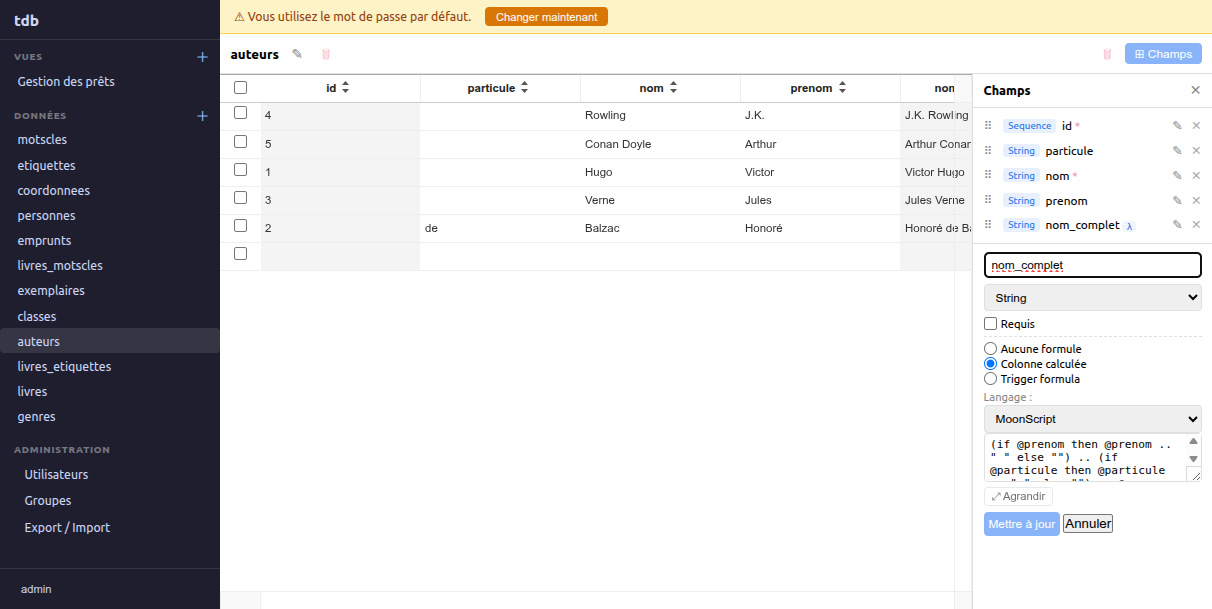
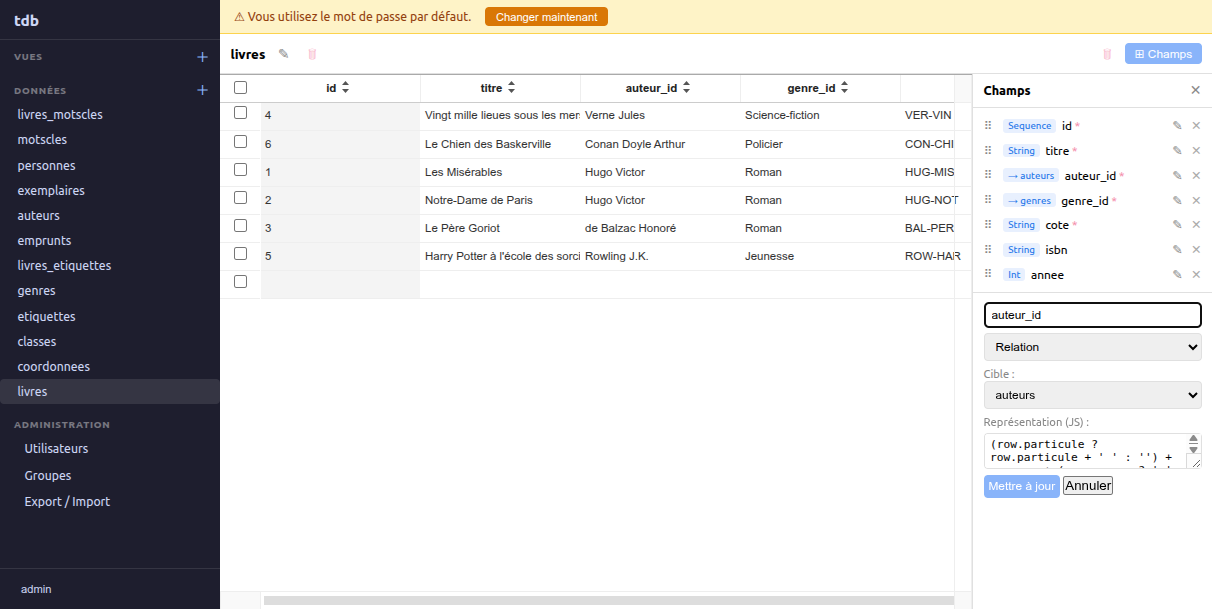
docs: mises à jour captures d'écran, référence FK reprFormula, tests relations
- Toutes les captures d'écran régénérées avec le schéma bibliothèque
- space-data.png : auteur_id/genre_id affichés avec labels (Hugo Victor, Roman…)
- fields-panel.png / field-edit.png : panneau de champ avec formule de représentation
- Ajout tests/test_relations.moon : 11 tests CRUD pour les relations FK avec reprFormula
- doc/reference.md : type Relation, updateRelation, formule de représentation

diff --git a/doc/reference.md b/doc/reference.md
@@ -88,7 +88,7 @@ une formule.
 | `Any` | Type libre (JSON) |
 | `Map` | Objet JSON |
 | `Array` | Tableau JSON |
-| `Relation` | Référence vers un enregistrement d'un autre espace |
+| `Relation` | Référence vers un enregistrement d'un autre espace (affichage personnalisable via `reprFormula`) |
 
 ### Champ calculé (colonne calculée)
 
@@ -227,7 +227,7 @@ structures arborescentes (ex. catégories, généalogies).
 # Lister les relations d'un espace
 query {
   relations(spaceId: "...") {
-    id name fromFieldId toSpaceId toFieldId
+    id name fromFieldId toSpaceId toFieldId reprFormula
   }
 }
 
@@ -266,7 +266,30 @@ mutation {
 
 # Supprimer
 mutation { deleteRelation(id: "...") }
+
+# Définir la formule de représentation d'une relation livres → auteurs
+mutation {
+  updateRelation(id: "...", input: {
+    reprFormula: "(row.particule ? row.particule + ' ' : '') + row.nom + (row.prenom ? ' ' + row.prenom : '')"
+  }) {
+    id reprFormula
+  }
+}
 ```
+
+### Formule de représentation
+
+Une relation peut avoir un champ **`reprFormula`** : une expression JavaScript évaluée sur
+chaque enregistrement cible pour produire un libellé lisible.
+
+- La variable `row` est liée à l'enregistrement cible.
+- Exemples : `row.libelle`, `row.nom + ' ' + row.prenom`
+- Quand elle est définie, les colonnes FK de la grille affichent le résultat de la formule
+  au lieu de l'identifiant brut.
+- En mode édition, une liste déroulante présente tous les enregistrements cibles avec leur
+  libellé calculé.
+- Si aucune formule n'est définie, la colonne utilise le champ `_repr` de l'espace cible
+  (s'il existe), sinon l'identifiant brut.
 
 ---
 
